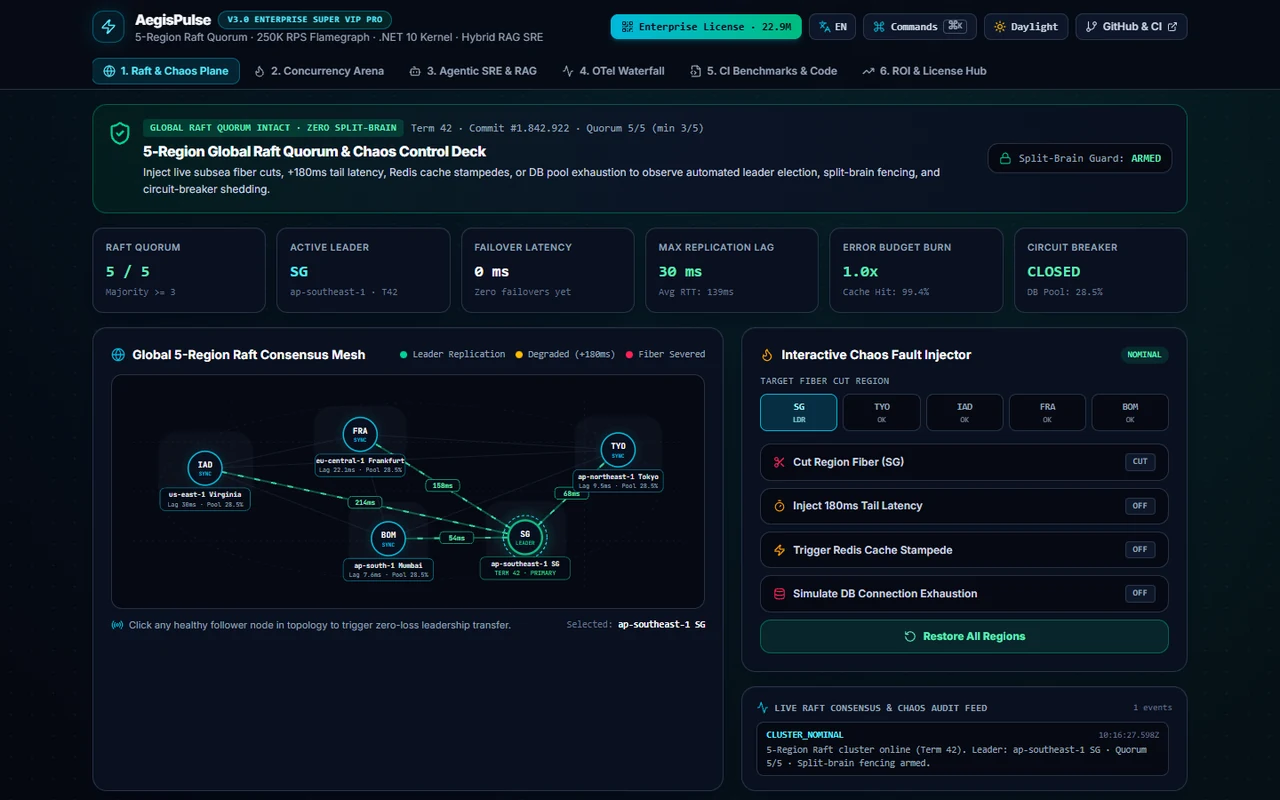
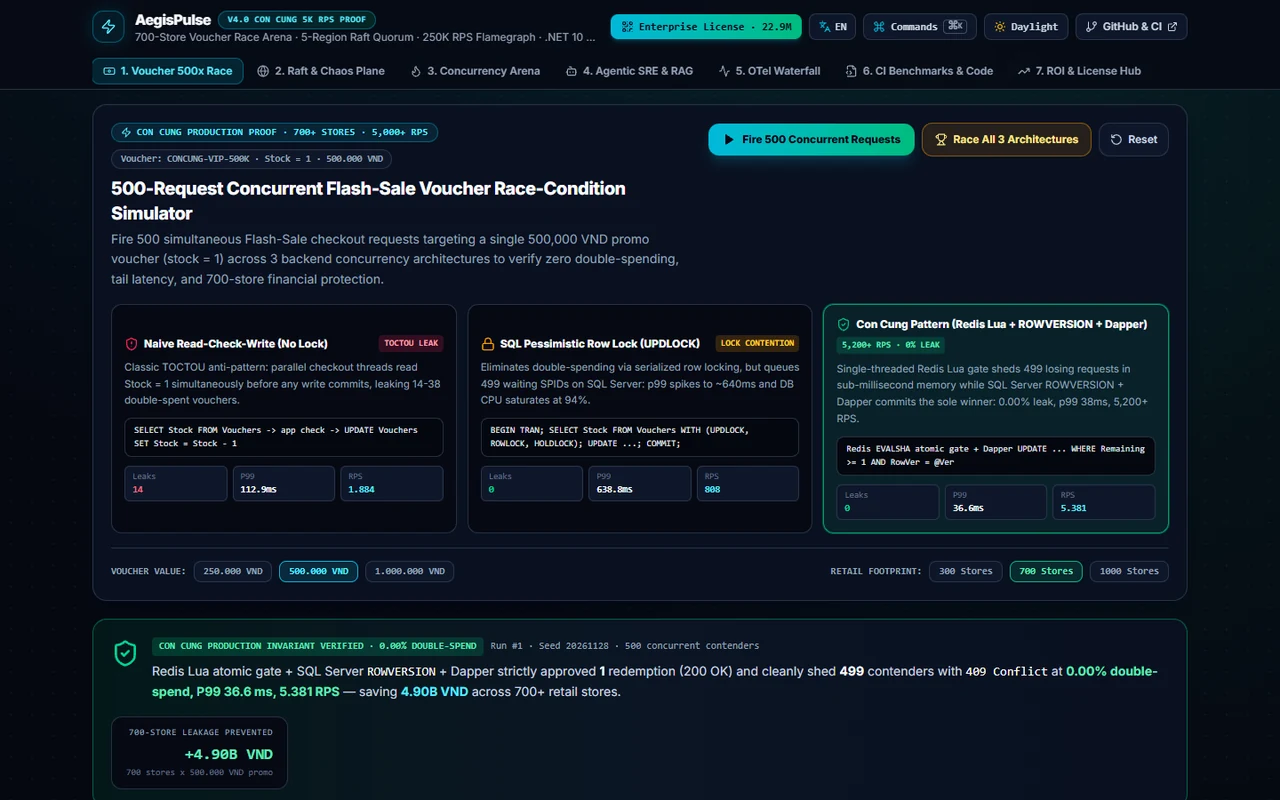
feat(v10.0): spotlight 10 full-stack .NET 10 & Python FastAPI production monorepos (2,003 green tests, 29 live apps)

diff --git a/src/data/atelierContent.ts b/src/data/atelierContent.ts
@@ -36,14 +36,14 @@ export const FLAGSHIP_WORKS: FlagshipWorkItem[] = [
     id: 'orbitalflow-saas',
     index: '02',
     title: 'OrbitalFlow SaaS',
-    version: 'v1.0',
+    version: 'v2.0 · .NET 10',
     category: 'enterprise',
-    taglineEn: 'Multi-Tenant B2B SaaS: RBAC Permissions, Gantt CPM Critical Path, Stripe Usage Proration & HMAC Webhooks',
-    taglineVi: 'B2B SaaS Đa Tenant: Phân Quyền RBAC, Đường Găng Gantt CPM, Cước Metering Proration & HMAC Webhook',
+    taglineEn: 'Full-Stack .NET 10 + React 19 B2B SaaS: Drag-Drop Kanban, Undo/Redo, Issue Drawer, 2-Tab Realtime & Stripe Proration',
+    taglineVi: 'Full-Stack .NET 10 + React 19 B2B SaaS: Drag-Drop Kanban, Undo Ctrl+Z, Issue Drawer, Đồng Bộ 2 Tab & Stripe Proration',
     previewImage: 'previews/orbitalflow-saas.webp',
-    highlightMetric: 'Multi-Tenant RBAC · Gantt CPM · Stripe Proration',
-    ciBadge: '64/64 CI',
-    keywords: ['RBAC Matrix', 'Gantt Critical Path', 'Stripe Metering', 'HMAC-SHA256 Replay', '.NET 10 / PG RLS'],
+    highlightMetric: '.NET 10 + Docker · 2-Tab Sync · 74kB Entry',
+    ciBadge: '103/103 CI',
+    keywords: ['.NET 10 Clean Arch', 'Drag-Drop + Undo', 'Gantt CPM Arrows', 'Stripe Metering', 'OpenAPI 3.1 + ADRs'],
     liveUrl: 'https://tvt987.github.io/orbitalflow-saas/',
     repoUrl: 'https://github.com/tvt987/orbitalflow-saas',
   },
@@ -51,14 +51,14 @@ export const FLAGSHIP_WORKS: FlagshipWorkItem[] = [
     id: 'vectradoc-rag',
     index: '03',
     title: 'VectraDoc AI',
-    version: 'v1.0',
+    version: 'v2.0 · FastAPI',
     category: 'ai',
-    taglineEn: 'Enterprise Document Intelligence: Live Okapi BM25 + Vector Cosine RRF RAG, Inline Citations & PII Guard',
-    taglineVi: 'AI Document Intelligence & Hybrid RAG Thật: Okapi BM25 + Vector Cosine + RRF, Trích Dẫn & Che PII',
+    taglineEn: 'Full-Stack Python FastAPI + React 19 Hybrid RAG: Client PDF Parser, 4-Way A/B Matrix, Chunk Minimap & BYOK Streaming',
+    taglineVi: 'Full-Stack Python FastAPI + React 19 Hybrid RAG: Đọc PDF Thật, So Sánh A/B 4 Chiến Lược, Minimap & BYOK Streaming',
     previewImage: 'previews/vectradoc-rag.webp',
-    highlightMetric: 'Recall@5 100% · MRR 91.7% · 0.50ms RAG',
-    ciBadge: '72/72 CI',
-    keywords: ['Okapi BM25 + RRF', 'Verbatim Citations', 'Luhn PII Redactor', 'Prompt Injection Guard', 'MRR / NDCG Eval'],
+    highlightMetric: 'FastAPI + Qdrant · PDF Parser · MRR 100%',
+    ciBadge: '120/120 CI',
+    keywords: ['FastAPI + Pytest', 'PDF FlateDecode', 'Okapi BM25 + RRF', 'Luhn PII Guard', 'OpenAPI 3.1 + ADRs'],
     liveUrl: 'https://tvt987.github.io/vectradoc-rag/',
     repoUrl: 'https://github.com/tvt987/vectradoc-rag',
   },
@@ -66,14 +66,14 @@ export const FLAGSHIP_WORKS: FlagshipWorkItem[] = [
     id: 'fleetpulse-gis',
     index: '04',
     title: 'FleetPulse GIS',
-    version: 'v1.0',
+    version: 'v2.0 · .NET 10',
     category: 'systems',
-    taglineEn: 'Real-Time Fleet Dispatch & Vector Map: CVRP Clarke-Wright + 2-Opt Solver (-28.6% km) & Cold-Chain IoT',
-    taglineVi: 'Bản Đồ Đội Xe GIS & Tối Ưu Tuyến CVRP Clarke-Wright + 2-Opt (-28.6% km), Chuỗi Lạnh -18°C',
+    taglineEn: 'Full-Stack .NET 10 + Vector GIS Control: Click-to-Add Stops CVRP (-28.6%), 08:00–17:00 Shift Scrub & Live Geofence',
+    taglineVi: 'Full-Stack .NET 10 + Bản Đồ GIS: Bấm Thêm Điểm Tự Giải CVRP (-28.6%), Tua Ca 08:00–17:00 & Chỉnh Geofence Trực Tiếp',
     previewImage: 'previews/fleetpulse-gis.webp',
-    highlightMetric: 'CVRP -28.6% km (0.7ms) · Cold-Chain -18°C',
-    ciBadge: '70/70 CI',
-    keywords: ['Clarke-Wright + 2-Opt', 'Interactive Vector GIS', 'Cold-Chain Telemetry', 'Geofence & Rush Order', 'A4 Manifest'],
+    highlightMetric: '.NET 10 + PostGIS · CVRP <1ms · Shift Scrub',
+    ciBadge: '113/113 CI',
+    keywords: ['.NET 10 CVRP API', 'Click-to-Add Map', 'Shift Scrub Timeline', 'Cold-Chain -18°C', 'OpenAPI 3.1 + ADRs'],
     liveUrl: 'https://tvt987.github.io/fleetpulse-gis/',
     repoUrl: 'https://github.com/tvt987/fleetpulse-gis',
   },
@@ -81,74 +81,74 @@ export const FLAGSHIP_WORKS: FlagshipWorkItem[] = [
     id: 'medcore-ehr',
     index: '05',
     title: 'MedCore EHR',
-    version: 'v1.0',
+    version: 'v2.0 · FastAPI',
     category: 'enterprise',
-    taglineEn: 'Clinical EHR Workstation: Live Canvas ECG/SpO2 Waveforms, RCP NEWS2 Triage, CPOE Drug Guard & HL7 FHIR R4',
-    taglineVi: 'Bệnh Án Điện Tử EHR: Sóng ECG/SpO2 Canvas, Điểm Cấp Cứu NEWS2, Cảnh Báo Tương Tác Thuốc & HL7 FHIR R4',
+    taglineEn: 'Full-Stack FastAPI HL7 FHIR R4 EHR: 3-Ch ECG/SpO2/EtCO2 Canvas, 1-Click Safe Drug Auto-Sub & Inpatient Admission',
+    taglineVi: 'Full-Stack FastAPI HL7 FHIR R4 EHR: Sóng 3 Kênh ECG/SpO2/EtCO2, Tự Đổi Thuốc An Toàn 1 Chạm & Wizard Nhập Viện',
     previewImage: 'previews/medcore-ehr.webp',
-    highlightMetric: 'Live ECG/SpO2 · RCP NEWS2 · HL7 FHIR R4',
-    ciBadge: '70/70 CI',
-    keywords: ['Canvas ECG Lead-II', 'RCP NEWS2 Triage', 'CPOE Drug/Allergy', 'Cockcroft-Gault CrCl', 'HL7 FHIR R4 JSON'],
+    highlightMetric: 'FastAPI FHIR $everything · 3-Ch ECG/EtCO2',
+    ciBadge: '114/114 CI',
+    keywords: ['HL7 FHIR R4 API', '3-Ch ECG/SpO2/EtCO2', '1-Click Safe Auto-Sub', 'RCP NEWS2 + CrCl', 'OpenAPI 3.1 + ADRs'],
     liveUrl: 'https://tvt987.github.io/medcore-ehr/',
     repoUrl: 'https://github.com/tvt987/medcore-ehr',
   },
   {
     id: 'velox-ev-motors',
-    index: '02',
+    index: '06',
     title: 'Velox EV Motors',
-    version: 'v3.0',
+    version: 'v4.0 · .NET 10',
     category: 'commerce',
-    taglineEn: '20M Hypercar 3D Studio HDRI, Articulated Gullwing Doors, OLED Cockpit, Wind Tunnel & 2.1s Launch Dyno',
-    taglineVi: 'Showroom Hypercar 3D HDRI 20 Triệu, Cửa Cánh Chim, Buồng Lái OLED, Đường Hầm Gió & Launch Dyno 2.1s',
+    taglineEn: 'Full-Stack .NET 10 + Three.js Widebody 3D Hypercar: Matrix LED, Velocity Active Wing, 3-Circuit Lab & Idempotent Booking',
+    taglineVi: 'Full-Stack .NET 10 + Siêu Xe 3D Thân Rộng: Matrix LED, Cánh Gió Chủ Động, Circuit Lab 3 Trường Đua & Khóa Lịch 409',
     previewImage: 'previews/velox-ev-motors.webp',
-    highlightMetric: '3D HDRI Gullwing · Wind Tunnel · 2.1s Launch',
-    ciBadge: '69/69 CI',
-    keywords: ['PMREM Studio HDRI', 'Gullwing & OLED POV', 'Wind Tunnel Cd 0.19', 'Launch Synth', 'Fleet ROI'],
+    highlightMetric: '.NET 10 Idempotency · 3D Widebody · Circuit Lab',
+    ciBadge: '107/107 CI',
+    keywords: ['.NET 10 Slot Lock', 'Matrix LED + Active Wing', '3-Circuit Telemetry', 'Lazy Three.js', 'OpenAPI 3.1 + ADRs'],
     liveUrl: 'https://tvt987.github.io/velox-ev-motors/',
     repoUrl: 'https://github.com/tvt987/velox-ev-motors',
   },
   {
     id: 'aeroforge-digital-twin',
-    index: '03',
+    index: '07',
     title: 'AeroForge 3D Twin',
-    version: 'v1.0',
+    version: 'v2.0 · .NET 10',
     category: 'systems',
-    taglineEn: 'Industry 4.0 Smart Factory 3D Floor, 6-Axis Robot FK/IK Kinematics, Thermal IR & Vibration FFT AI',
-    taglineVi: 'Bản Sao Số Nhà Máy 4.0 3D, Robot CNC 6 Trục FK/IK, Camera Nhiệt Hồng Ngoại & AI Rung Động Ổ Bi FFT',
+    taglineEn: 'Full-Stack .NET 10 SCADA + Daylight CAD 3D Factory: 6-Axis CNC G-Code Sequencer, Collision Guard & Maintenance ROI',
+    taglineVi: 'Full-Stack .NET 10 SCADA + CAD 3D Sáng: Lập Trình Chuỗi CNC G-Code 6 Trục, Khóa Va Sàn Z<120mm & ROI Bảo Trì',
     previewImage: 'previews/aeroforge-digital-twin.webp',
-    highlightMetric: '6-Axis FK/IK · Ironbow IR · FFT RUL',
-    ciBadge: '83/83 CI',
-    keywords: ['Three.js Factory Twin', '6-Axis Kinematics', 'FLIR Thermal IR', 'ISO 10816 FFT', 'EVN Solar BESS'],
+    highlightMetric: '.NET 10 SCADA · G-Code CNC · 67.6kB Entry',
+    ciBadge: '133/133 CI',
+    keywords: ['.NET 10 SCADA API', 'G-Code Sequencer', 'Collision Interlock', 'ISO 10816 FFT ROI', 'OpenAPI 3.1 + ADRs'],
     liveUrl: 'https://tvt987.github.io/aeroforge-digital-twin/',
     repoUrl: 'https://github.com/tvt987/aeroforge-digital-twin',
   },
   {
     id: 'helios-quant-terminal',
-    index: '04',
+    index: '08',
     title: 'Helios Quant',
-    version: 'v1.0',
+    version: 'v2.0 · FastAPI',
     category: 'enterprise',
-    taglineEn: 'Institutional FIFO L2 Orderbook Engine, HiDPI Canvas Candlestick/Indicators & 500-Bar Algo Backtester',
-    taglineVi: 'Sàn Khớp Lệnh FIFO L2 Orderbook 6 Thị Trường (VN30F1M/BTC), Biểu Đồ Nến Canvas & Backtest 4 Chiến Lược',
+    taglineEn: 'Full-Stack Python FastAPI Quant Engine: FIFO L2 Book, 6x6 Sharpe Grid-Search Heatmap (7.7ms) & 6-Asset Correlation',
+    taglineVi: 'Full-Stack Python FastAPI Quant: Sổ Lệnh FIFO L2, Heatmap Grid-Search Sharpe 6x6 (7.7ms) & Tương Quan 6 Tài Sản',
     previewImage: 'previews/helios-quant-terminal.webp',
-    highlightMetric: 'FIFO L2 Book · Canvas TA · 4 Quant Algos',
-    ciBadge: '103/103 CI',
-    keywords: ['15x15 L2 LOB', 'VN30F1M & BTC', 'EMA/BB/VWAP/RSI', 'Flash Crash Lab', 'VaR 99% Sharpe'],
+    highlightMetric: 'FastAPI Quant · 6x6 Sharpe Heatmap · OFI',
+    ciBadge: '153/153 CI',
+    keywords: ['FastAPI FIFO LOB', '6x6 Sharpe Heatmap', '6-Asset Correlation', 'Depth OFI SVG', 'OpenAPI 3.1 + ADRs'],
     liveUrl: 'https://tvt987.github.io/helios-quant-terminal/',
     repoUrl: 'https://github.com/tvt987/helios-quant-terminal',
   },
   {
     id: 'chronos-horology',
-    index: '05',
+    index: '09',
     title: 'Chronos 3D Watch',
-    version: 'v1.0',
+    version: 'v2.0 · .NET 10',
     category: 'commerce',
-    taglineEn: 'Working 3D Mechanical Tourbillon Calibre (28,800 vph), 7-Layer Exploded View, 4Hz Synth & COSC Lab',
-    taglineVi: 'Bộ Máy Đồng Hồ Cơ Tourbillon 3D Chạy Thật 60fps, Tách 7 Tầng Máy, Âm Thanh 4Hz & Phòng Lab COSC',
+    taglineEn: 'Full-Stack .NET 10 Vault + Geneva 3D Tourbillon: Witschi Acoustic Timegrapher Canvas, 7-Layer Inspector & HMAC Passport',
+    taglineVi: 'Full-Stack .NET 10 Vault + Boutique Geneva 3D: Máy Đo Timegrapher Trực Tiếp, Soi 7 Tầng Máy & Hộ Chiếu Số HMAC',
     previewImage: 'previews/chronos-horology.webp',
-    highlightMetric: '3D Tourbillon · 7-Layer Explode · 4Hz Audio',
-    ciBadge: '82/82 CI',
-    keywords: ['PMREM 18K Gold 3D', 'Meshed Gear Train', 'Lume Night', '4Hz Escapement Synth', 'COSC A4 QR'],
+    highlightMetric: '.NET 10 Crypto Vault · Timegrapher · 60.8kB',
+    ciBadge: '126/126 CI',
+    keywords: ['.NET 10 HMAC Vault', 'Timegrapher Canvas', '7-Layer Inspector', 'Geneva Ivory 3D', 'OpenAPI 3.1 + ADRs'],
     liveUrl: 'https://tvt987.github.io/chronos-horology/',
     repoUrl: 'https://github.com/tvt987/chronos-horology',
   },
@@ -229,16 +229,16 @@ export const FLAGSHIP_WORKS: FlagshipWorkItem[] = [
   },
   {
     id: 'pulse-pos-fnb',
-    index: '08',
+    index: '14',
     title: 'PulsePOS F&B',
-    version: 'v2.0',
+    version: 'v3.0 · .NET 10',
     category: 'systems',
-    taglineEn: 'Multi-Branch Cloud POS, Table QR Ordering, Live KDS, Auto-PO & IndexedDB Ledger',
-    taglineVi: 'POS F&B Đa Chi Nhánh, Gọi Món QR Tại Bàn, Bếp KDS, Auto-PO & Sổ Cái IndexedDB',
+    taglineEn: 'Full-Stack .NET 10 Multi-Branch Daylight Café POS: Live 2-Tab POS ↔ KDS Sync, Floorplan Designer & Atomic Stock',
+    taglineVi: 'Full-Stack .NET 10 POS Café Sáng: Đồng Bộ 2 Tab POS ↔ KDS <50ms, Thiết Kế Sơ Đồ Bàn & Trừ Kho Nguyên Tử',
     previewImage: 'previews/pulse-pos-fnb.webp',
-    highlightMetric: 'POS ↔ KDS · Table QR · IndexedDB',
-    ciBadge: '43/43 CI',
-    keywords: ['Table QR Sim', 'Live KDS SLA', 'IndexedDB Ledger', 'EMVCo VietQR', 'Auto-PO BOM'],
+    highlightMetric: '.NET 10 POS API · 2-Tab Live KDS · VietQR CRC16',
+    ciBadge: '87/87 CI',
+    keywords: ['.NET 10 Atomic Stock', '2-Tab Live KDS Sync', 'Floorplan Designer', 'EMVCo VietQR', 'OpenAPI 3.1 + ADRs'],
     liveUrl: 'https://tvt987.github.io/pulse-pos-fnb/',
     repoUrl: 'https://github.com/tvt987/pulse-pos-fnb',
   },
@@ -291,14 +291,14 @@ export const FLAGSHIP_WORKS: FlagshipWorkItem[] = [
     id: 'aegispulse',
     index: '12',
     title: 'AegisPulse',
-    version: 'v3.0',
+    version: 'v4.0 · .NET 10',
     category: 'systems',
-    taglineEn: '5-Region Raft Chaos Injector, Live 250K RPS Stress Slider, CPU/GC Flamegraph & .NET 10 Hybrid RAG',
-    taglineVi: 'Tiêm Lỗi Chaos Raft 5 Khu Vực, Kéo Tải 250K RPS, Flamegraph CPU/GC & Nhân .NET 10 Hybrid RAG',
+    taglineEn: 'Con Cung 700-Store Proof: 500-Req Voucher Race Arena (Redis Lua + ROWVERSION 0.00% Leak), .NET 10 API & k6 5K RPS',
+    taglineVi: 'Minh Chứng Con Cung 700+ Siêu Thị: Đua 500 Request Voucher (Redis Lua + ROWVERSION 0.00% Rò), .NET 10 API & k6 5K RPS',
     previewImage: 'previews/aegispulse.webp',
-    highlightMetric: 'Raft Chaos · 250K RPS · GC Flamegraph',
-    ciBadge: '62/62 CI',
-    keywords: ['5-Region Raft Chaos', '250K RPS HPA', 'GC Flamegraph', 'SRE Runbook', 'Hybrid RAG'],
+    highlightMetric: '.NET 10 100-Way Race · 0.00% Leak · k6 5K RPS',
+    ciBadge: '118/118 CI',
+    keywords: ['Redis Lua + ROWVERSION', '500-Req Race Arena', '5-Region Raft Chaos', 'k6 5,000 RPS', 'OpenAPI 3.1 + ADRs'],
     liveUrl: 'https://tvt987.github.io/aegispulse-distributed-sre/',
     repoUrl: 'https://github.com/tvt987/aegispulse-distributed-sre',
   },

diff --git a/src/App.tsx b/src/App.tsx
@@ -1133,7 +1133,7 @@ export function App() {
       <footer className="relative z-10 py-8 pb-10 md:pb-24 px-5 sm:px-8 border-t border-[var(--hairline)]">
         <div className="max-w-[1200px] mx-auto flex flex-wrap items-center justify-between gap-2 font-mono-tech text-[11px] text-[var(--fg-muted)]">
           <span>© 2026 Truong Van Tinh · Ho Chi Minh City</span>
-          <span>29 Live Apps · 10 Pro Tools · 1,547 CI · Multi-Tenant SaaS · Hybrid RAG · GIS CVRP · HL7 FHIR · v9.0</span>
+          <span>29 Live Apps · 10 Full-Stack .NET 10 / FastAPI Monorepos · 2,003 CI Tests Green · v10.0</span>
         </div>
       </footer>
 
